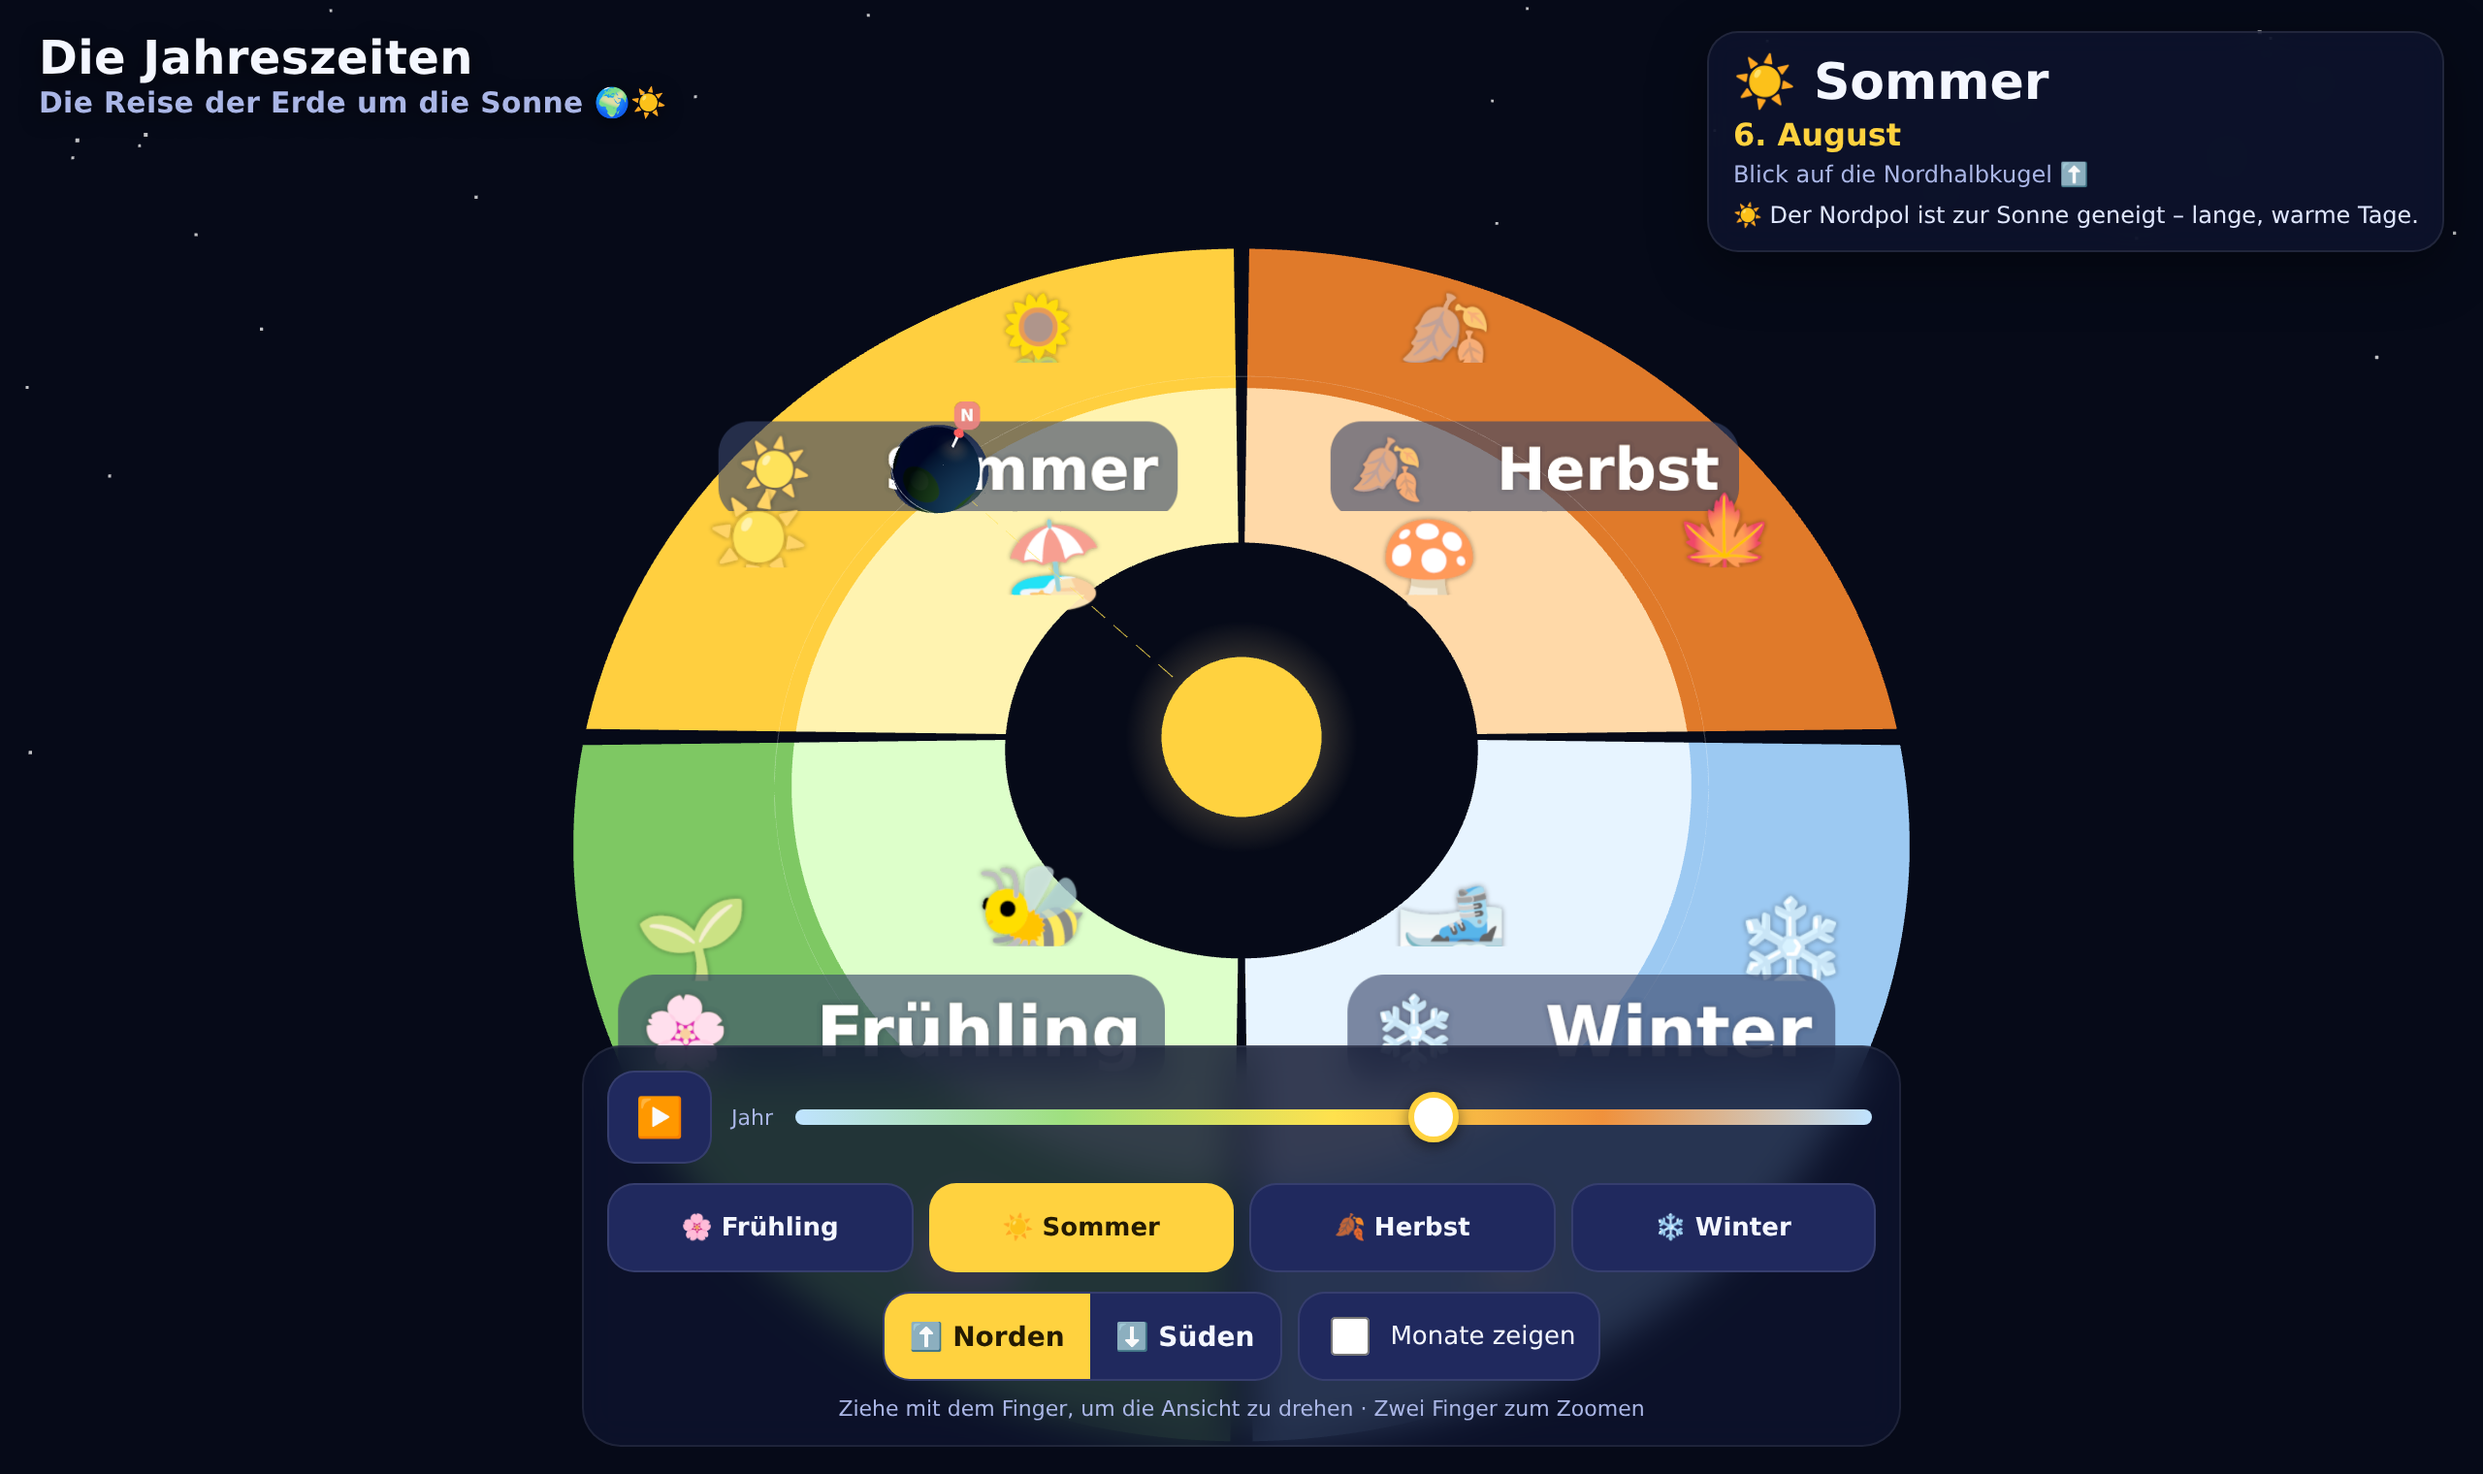
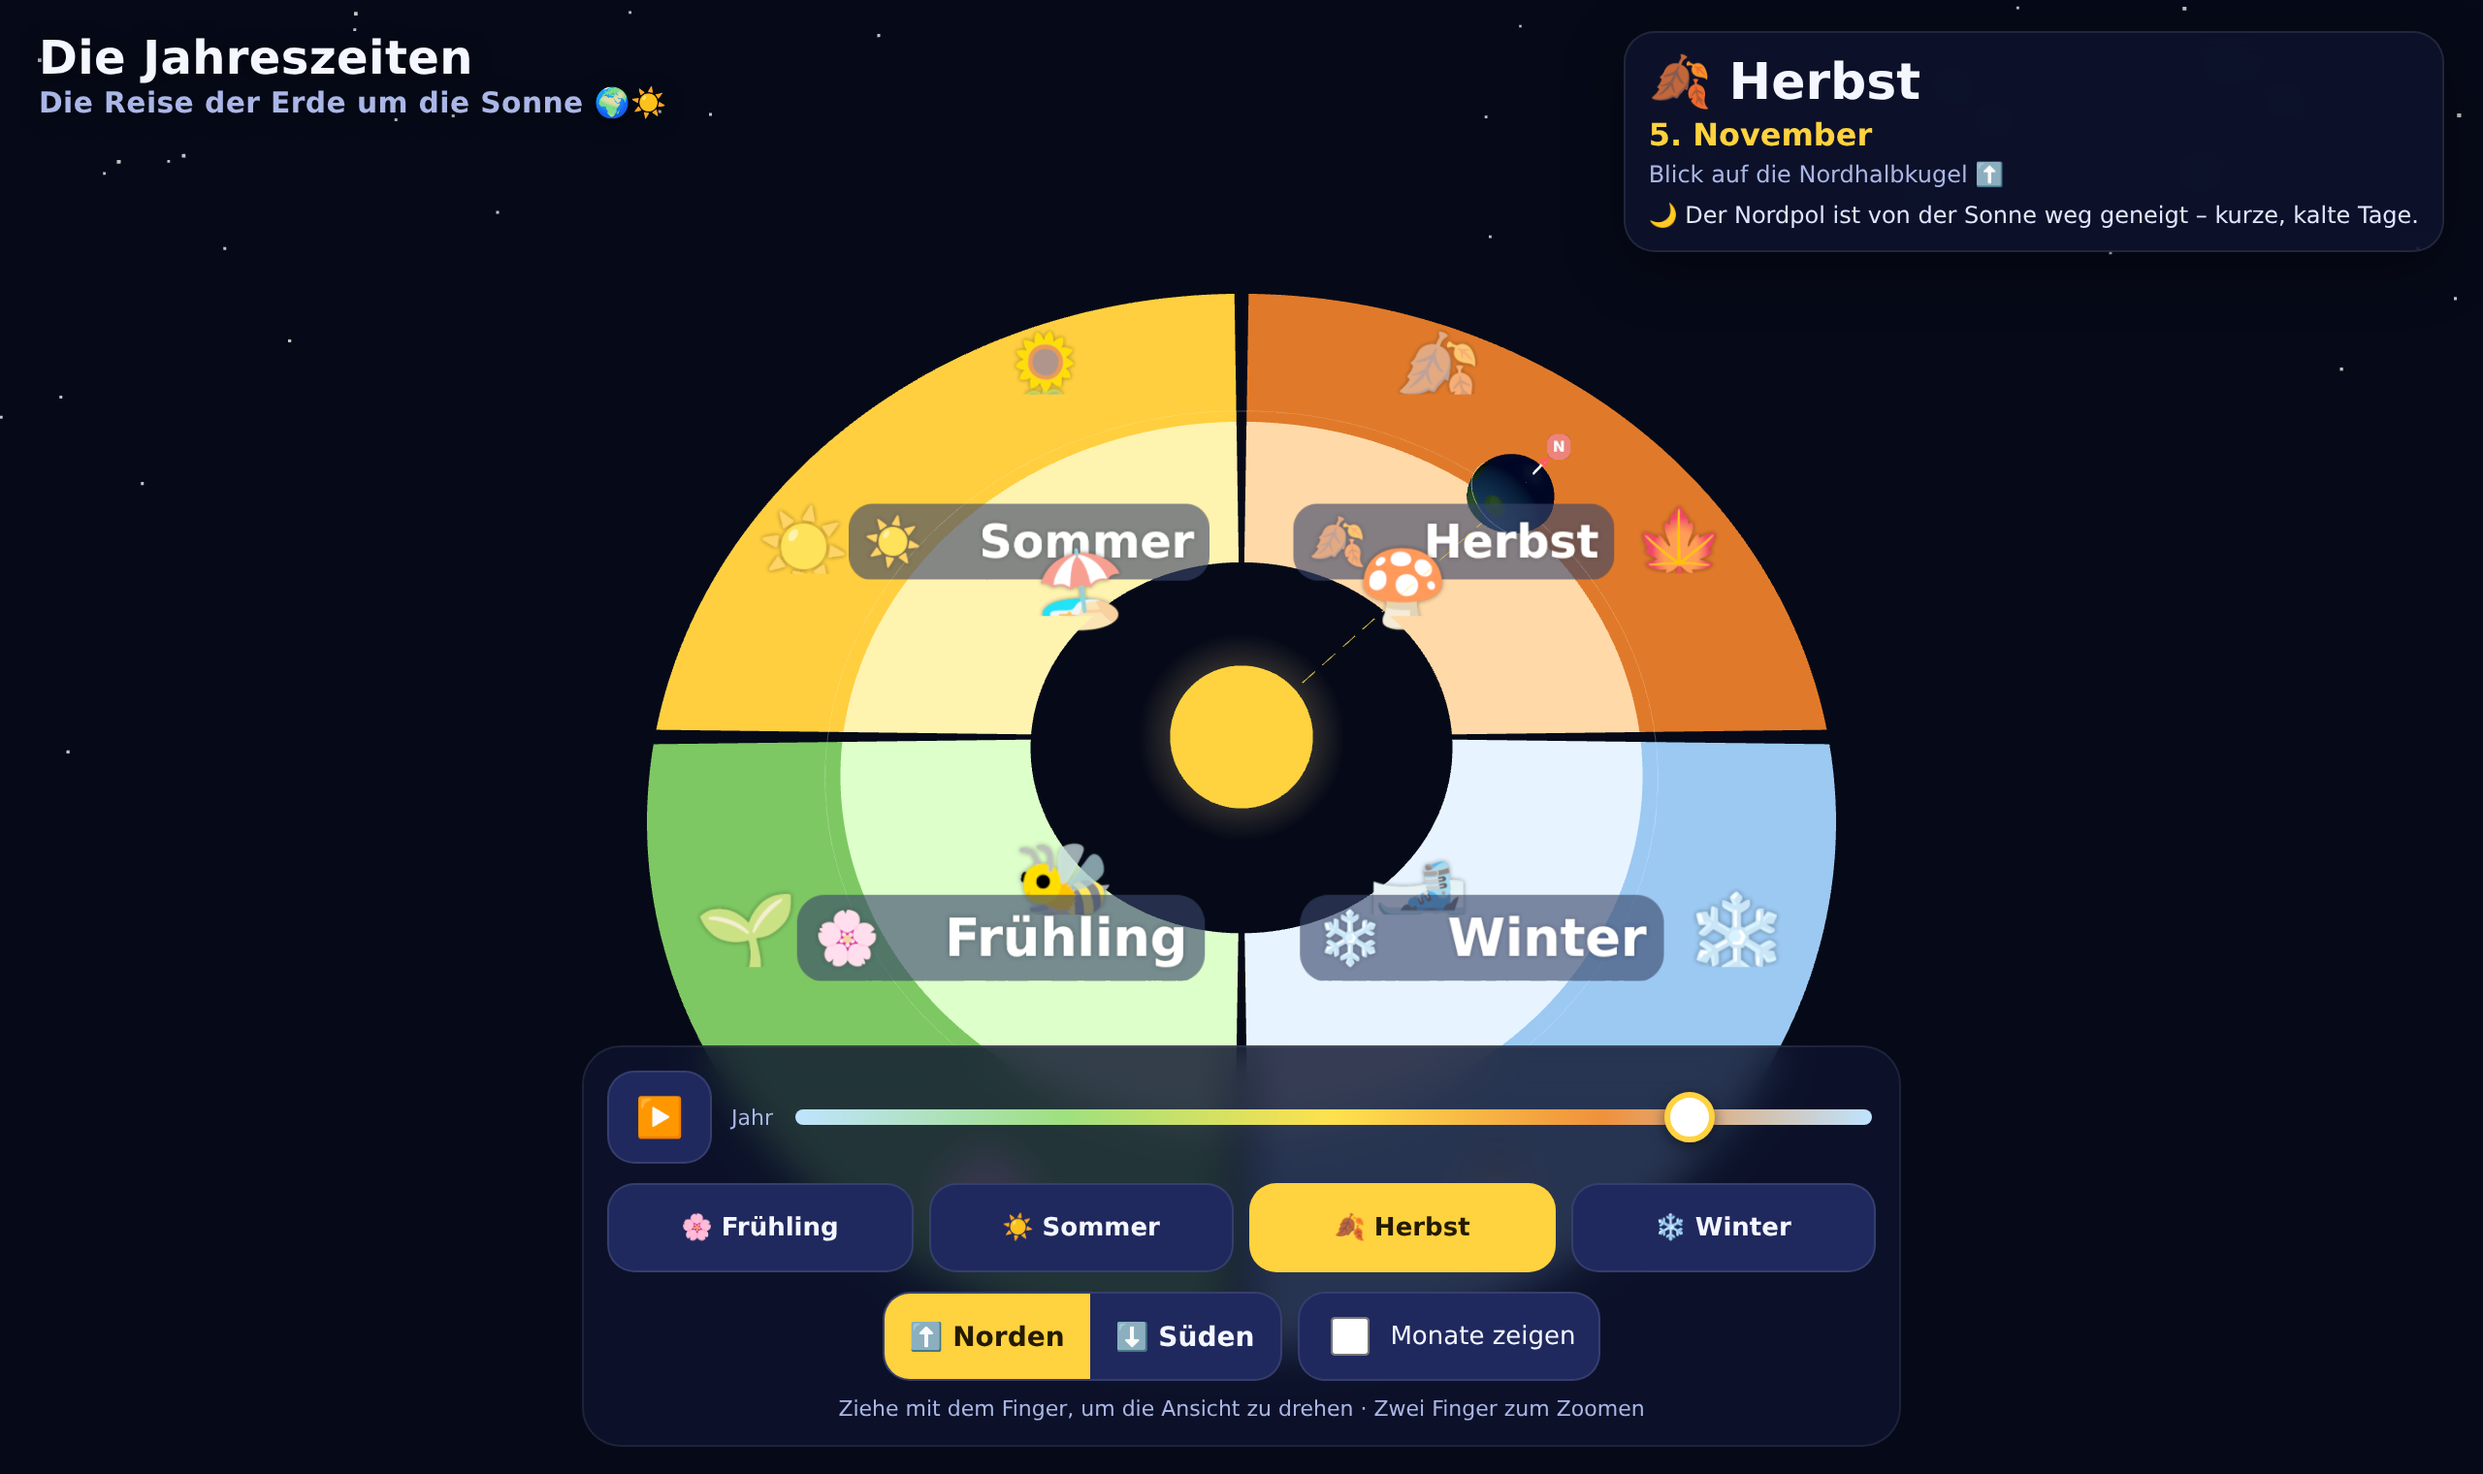
Süd-Ansicht als Z-Rolle (Südpol oben) + Labels vollständig sichtbar
- Nord/Süd-Wechsel jetzt als 180°-Rollbewegung um die Blickachse (Welt-Z):
  die ganze Welt wird auf den Kopf gestellt, in der Süd-Ansicht zeigt der
  Südpol nach oben (kein nordzentriertes Weltbild). Up-Vektor und
  Kameraposition rotieren gemeinsam um Z; Sprites bleiben aufrecht lesbar.
- Mehr Rand (R_FIT 17.5 -> 19.6) und kleinere Jahreszeit-Labels: Sommer/
  Winter werden nicht mehr am Bildrand abgeschnitten, nichts wird unten
  vom Bedienfeld verdeckt.
- Jahreszeit-Namen nach innen (Radius 8.4) verschoben, damit die
  umlaufende Erde sie nie überdeckt; Bildchen weiter nach außen.
- README-Vorschaubild aktualisiert.

Claude-Session: https://claude.ai/code/session_01DXJKBaUobPgxBcc257qX68

diff --git a/index.html b/index.html
@@ -257,7 +257,7 @@ controls.enablePan = false;
 
 // Distanz, bei der die ganze bunte Scheibe (Radius ~R_FIT) ins Bild passt –
 // abhängig vom Seitenverhältnis, damit es auf Handy (Hochformat) wie Desktop klappt.
-const R_FIT = 17.5;
+const R_FIT = 19.6;   // Radius inkl. Beschriftungen, mit etwas Rand
 function idealDist(){
   const vfov = THREE.MathUtils.degToRad(camera.fov);
   const t = Math.tan(vfov/2);
@@ -385,11 +385,12 @@ function buildFloor(hemi){
 
     const mid = (s.a0+s.a1)/2;
     // Jahreszeit-Name (mittig auf dem Sektor)
-    const nameSpr = makeTextSprite(`${vis.icon} ${s.season}`, { font:120, bg:'rgba(10,15,35,0.62)', color:'#ffffff', scale:2.5 });
-    nameSpr.position.copy(orbitPos(mid, RMID)); nameSpr.position.y = sgn*0.5;
+    const nameSpr = makeTextSprite(`${vis.icon} ${s.season}`, { font:120, bg:'rgba(10,15,35,0.62)', color:'#ffffff', scale:2.15 });
+    // Name nach innen (innerhalb der Umlaufbahn), damit die Erde ihn nie verdeckt
+    nameSpr.position.copy(orbitPos(mid, 8.4)); nameSpr.position.y = sgn*0.5;
     floorGroup.add(nameSpr);
-    // Bildchen: eins nach innen, eins nach außen, plus seitlich
-    const spots = [ [mid-0.36, RMID+2.7], [mid+0.36, RMID+2.7], [mid, FLOOR_IN+1.0] ];
+    // Bildchen: zwei außen (jenseits der Bahn), eins am inneren Rand
+    const spots = [ [mid-0.34, RMID+3.0], [mid+0.34, RMID+3.0], [mid, FLOOR_IN+0.7] ];
     vis.emojis.forEach((e,i)=>{
       const [ang,rad] = spots[i];
       const spr = makeTextSprite(e, { font:150, pad:20, scale:2.6 });
@@ -496,6 +497,7 @@ let theta = dayToTheta(191);   // Start: 11. Juli (heute)
 let playing = true;
 const SPEED = TWO_PI / 34;      // ein Jahr in ~34 s
 let camAnim = null;
+const Z_AXIS = new THREE.Vector3(0, 0, 1);   // Welt-Z ≈ Blickachse (zur Kamera)
 
 const el = {
   seasonName: document.getElementById('seasonName'),
@@ -569,13 +571,21 @@ function setHemisphere(h){
     const season = seasonAt(dayToTheta(+b.dataset.day));
     b.textContent = `${SEASON[season].icon} ${season}`;
   });
-  // Kamera über (Nord) bzw. unter (Süd) die Bahnebene bewegen (steile Draufsicht)
-  viewDir = (h==='north')
-    ? new THREE.Vector3(0, 0.88, 0.48).normalize()
-    : new THREE.Vector3(0,-0.88, 0.48).normalize();
-  const target = viewDir.clone().multiplyScalar(idealDist());
-  camAnim = { from:camera.position.clone(), to:target, t:0 };
-  controls.enabled = false;
+  // Perspektivwechsel als 180°-Rolle um die Blickachse (z, vom Betrachter aus):
+  // Die ganze Welt wird auf den Kopf gestellt – beim Süden zeigt der Südpol
+  // nach oben (kein nordzentriertes Weltbild). Umgesetzt als Rotation von
+  // Kameraposition UND Up-Vektor um die Welt-Z-Achse (die grob zur Kamera zeigt).
+  const wantSouth = (h === 'south');
+  const isSouth = camera.up.y < 0;               // aktueller Zustand
+  if(wantSouth !== isSouth){
+    camAnim = {
+      fromPos: camera.position.clone(),
+      fromUp:  camera.up.clone(),
+      delta:   wantSouth ? Math.PI : -Math.PI,   // Süd: +180°, Nord: zurück
+      t: 0,
+    };
+    controls.enabled = false;
+  }
   updateReadout();
 }
 
@@ -629,11 +639,13 @@ function loop(now){
   if(playing){ theta += SPEED*dt; updateEarth(); updateReadout(); }
 
   if(camAnim){
-    camAnim.t = Math.min(1, camAnim.t + dt*1.6);
-    const e = 1 - Math.pow(1-camAnim.t, 3); // easeOutCubic
-    camera.position.lerpVectors(camAnim.from, camAnim.to, e);
-    camera.lookAt(0,0,0);
-    if(camAnim.t>=1){ camAnim=null; controls.enabled=true; }
+    camAnim.t = Math.min(1, camAnim.t + dt*1.15);
+    const e = camAnim.t<0.5 ? 4*camAnim.t**3 : 1-Math.pow(-2*camAnim.t+2,3)/2; // easeInOut
+    const ang = camAnim.delta * e;
+    camera.position.copy(camAnim.fromPos).applyAxisAngle(Z_AXIS, ang);
+    camera.up.copy(camAnim.fromUp).applyAxisAngle(Z_AXIS, ang);
+    camera.lookAt(controls.target);
+    if(camAnim.t>=1){ camAnim=null; controls.enabled=true; controls.update(); }
   }
 
   sun.rotation.y += dt*0.15;
